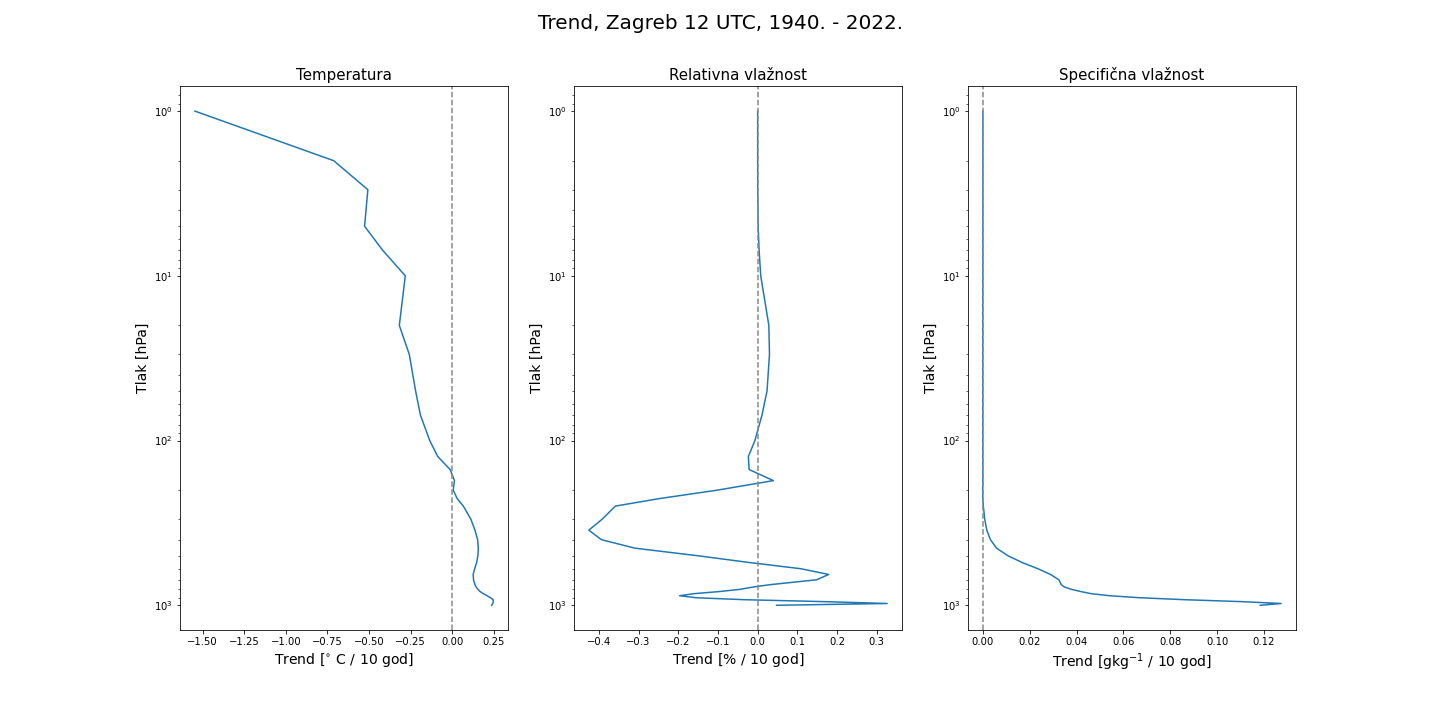
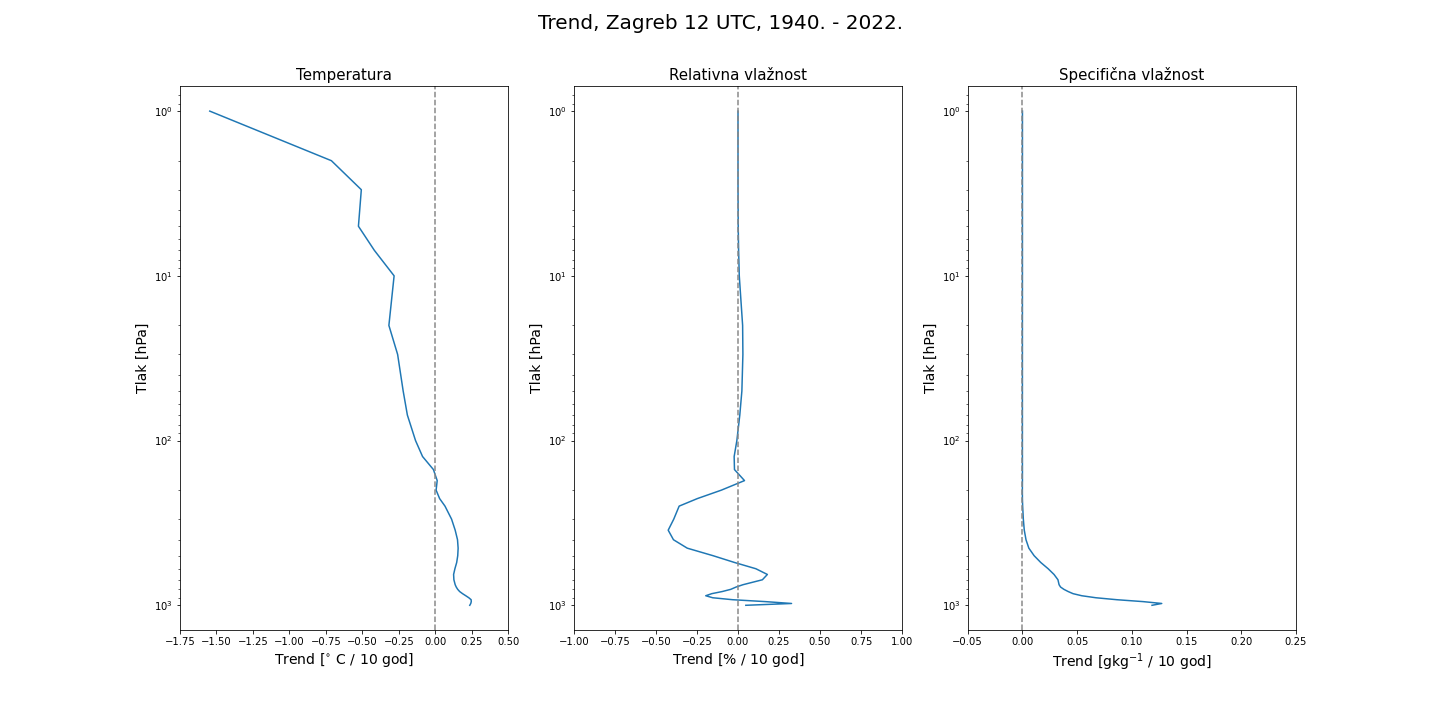
make trend x limits fixed

diff --git a/graphs.py b/graphs.py
@@ -28,6 +28,10 @@ def trend(temp, rel, spec, levels, title, season="none"):
     ax[2].set_title("Specifična vlažnost", fontsize=title_size)
     ax[2].set_xlabel(r"Trend [gkg$^{-1}$ / 10 god]", fontsize=label_size)
 
+    ax[0].set_xlim(-1.75, 0.5)
+    ax[1].set_xlim(-1, 1)
+    ax[2].set_xlim(-0.05, 0.25)
+
     for i in range(3):
         ax[i].invert_yaxis()
         ax[i].axvline(0, color="#888", linestyle="dashed")
